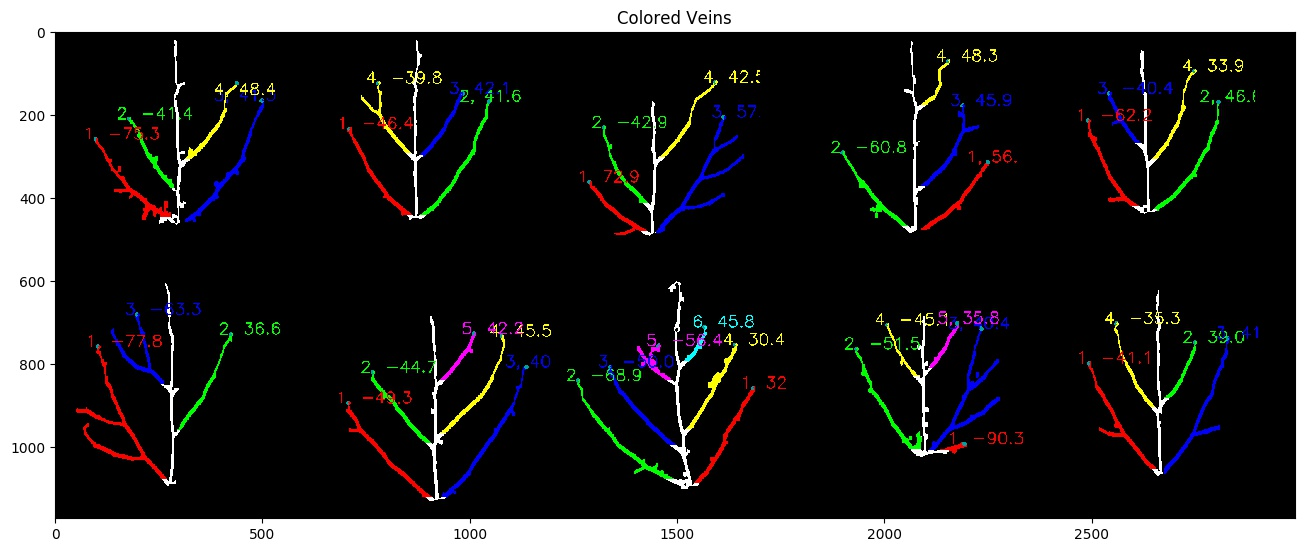
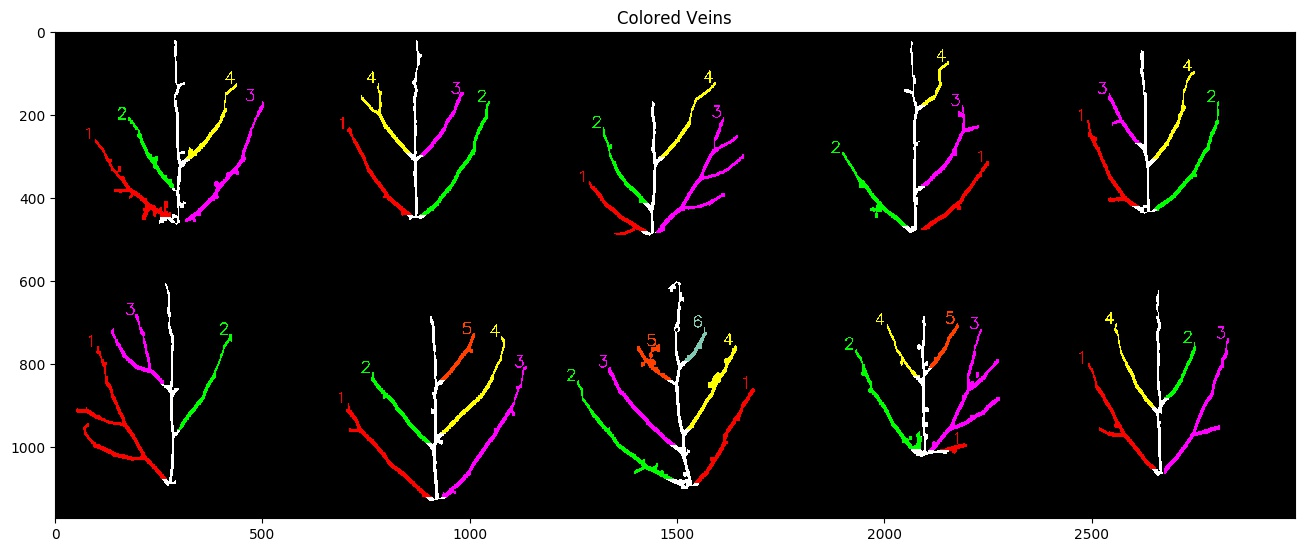
Use lighter color for labelling

diff --git a/main.py b/main.py
@@ -99,12 +99,15 @@ for i in range(len(edges_canny)):
     cv2.fillPoly(other_vein, small_perimeters, 0)
     other_vein_bgr = cv2.cvtColor(other_vein, cv2.COLOR_GRAY2BGR)
     _, contours, hierarchy = cv2.findContours(other_vein, cv2.RETR_TREE, cv2.CHAIN_APPROX_SIMPLE)
-    color_choice = [(0, 0, 255), (0, 255, 0), (255, 0, 0), (0, 255, 255), (255, 0, 255), (255, 255, 0), (255, 144, 30),
-                    (0, 90, 139), (130, 0, 75), (34, 128, 34), (118, 16, 205), (0, 118, 238), (139, 236, 255)]
+    color_choice = [(0, 0, 255), (0, 255, 0), (255, 0, 255), (0, 255, 255), (0, 64, 255)]
     masks = []
     individual_branchs = []
-    for j in range(10):
-        color_choice.append(np.random.randint(0, 255, size=(1, 3))[0].tolist())
+    num_more_color = 10
+    while num_more_color >= 0:
+        color_new = np.random.randint(0, 255, size=(1, 3))[0].tolist()
+        if color_new not in color_choice:
+            color_choice.append(color_new.copy())
+            num_more_color -= 1
     for c in range(len(contours)-1, -1, -1):
         if cv2.arcLength(contours[c], True) < 100:
             contours.pop(c)
